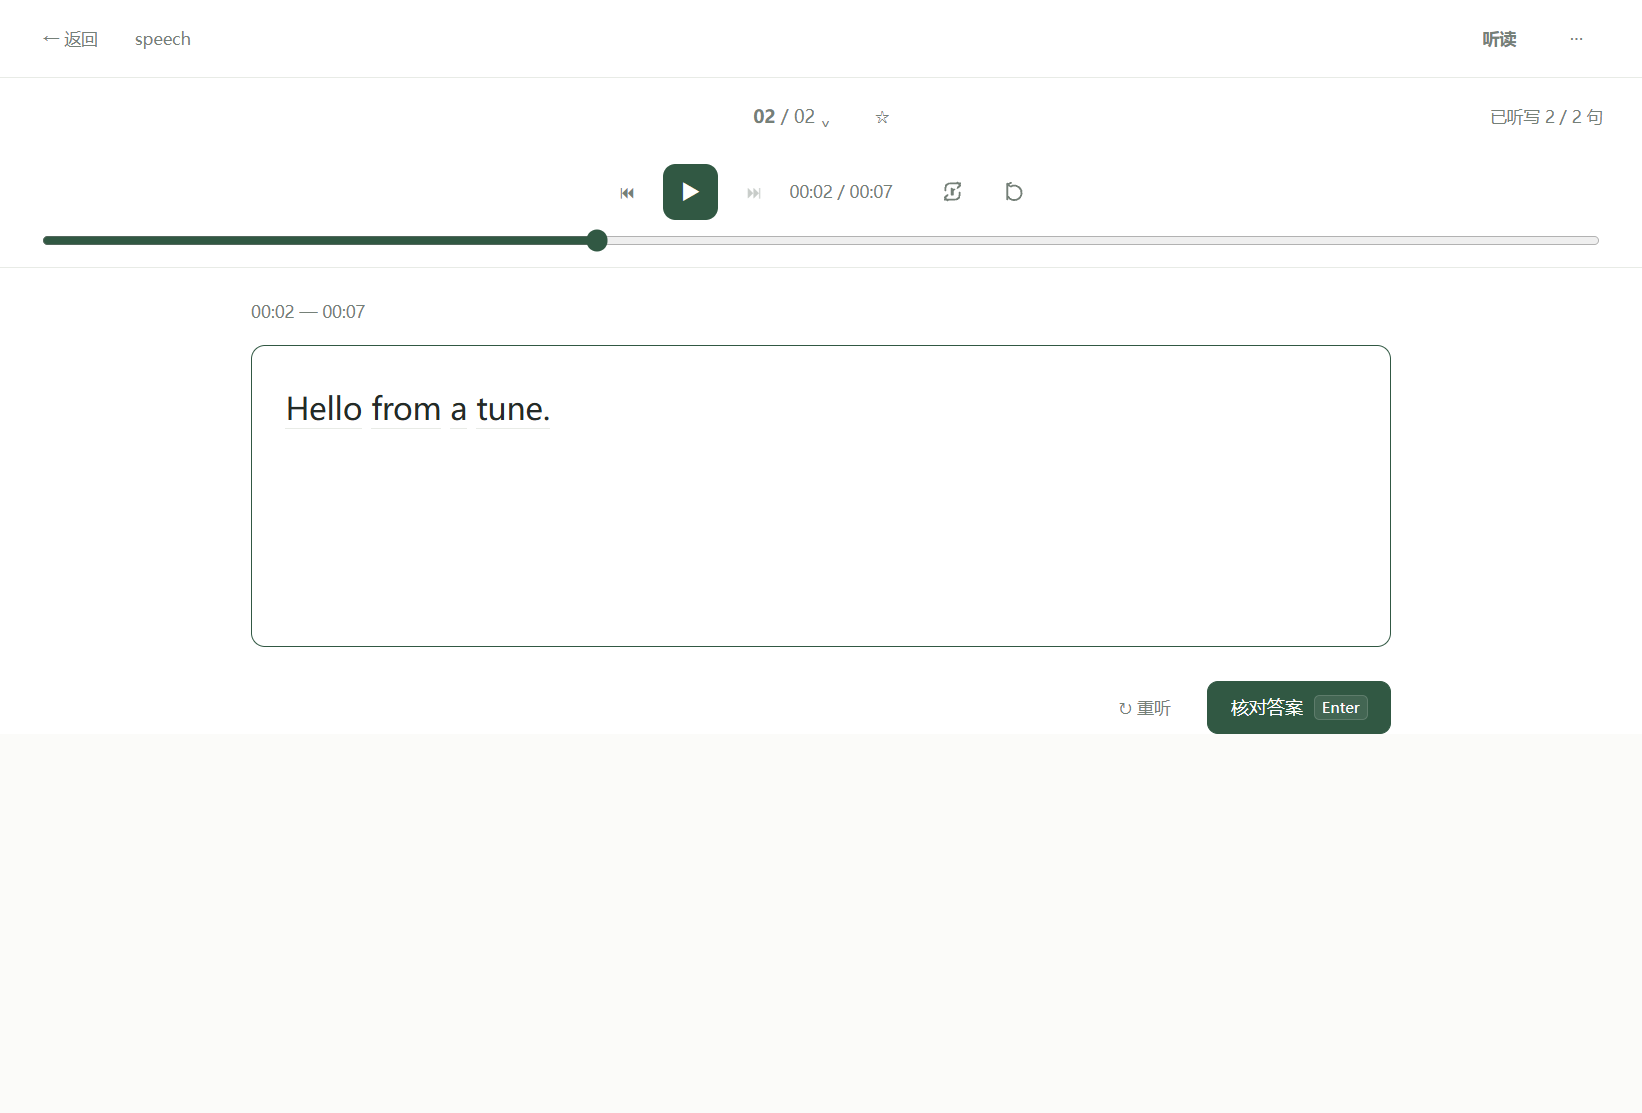
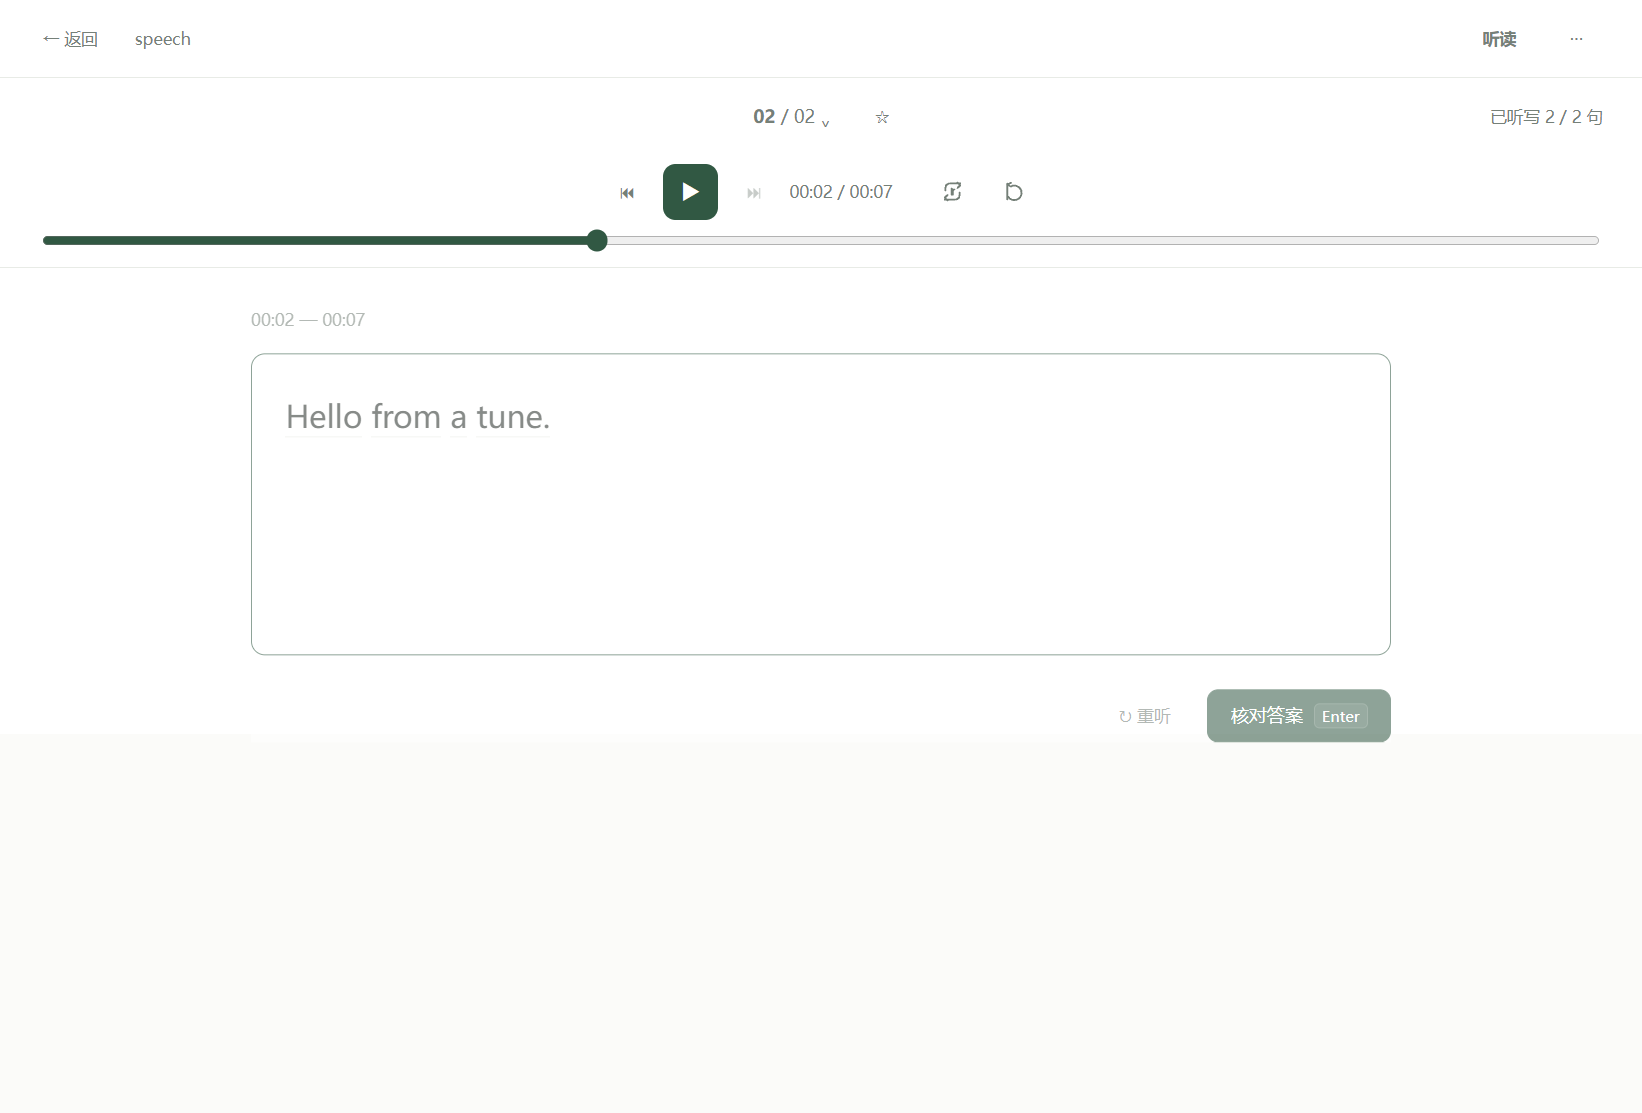
docs: MOT-2 短窗核对结果与切句中途人眼证据
1024×640 展开画面后可看见「核对结果」标题、对照句和一行说明，「收起画面」和「修改 / 下一句」仍在窗口里。20-next-sentence.png 是听写区约 0.55 透明度的切句中途帧，与 61-reduced-retract.png 不是同一张图。人眼自检 PASS。

Changed region(s): [[0.6833, 0.611, 0.8697, 0.6721], [0.1553, 0.336, 0.3417, 0.3971], [0.1553, 0.2749, 0.2174, 0.3055]]

diff --git a/docs/evidence/mot-2/README.md b/docs/evidence/mot-2/README.md
@@ -2,4 +2,4 @@
 
 Desktop CDP human smoke for MOT-2 学习态变化. Shots are taken on the Windows LM from `scripts/_cdp_mot2_smoke.mjs`, then copied here and to `C:\Users\PC\AttuneSmoke\mot-2\`.
 
-Hard gates: overlapping text, clipped primary buttons, covered 句序 / study head, unreadable type, or a white flash on sentence change are FAIL.
+Hard gates: overlapping text, clipped primary buttons, covered 句序 / study head, unreadable type, or a white flash on sentence change are FAIL. At 1024×640 with the picture expanded and a check result showing, the 「核对结果」 title, the comparison sentence, and at least one line of explanation must be visible without scrolling the result box; 「收起画面」 and 「修改 / 下一句」 stay in the window. `20-next-sentence.png` must be a mid-change frame of the dictation fade, not a duplicate of `61-reduced-retract.png`.
